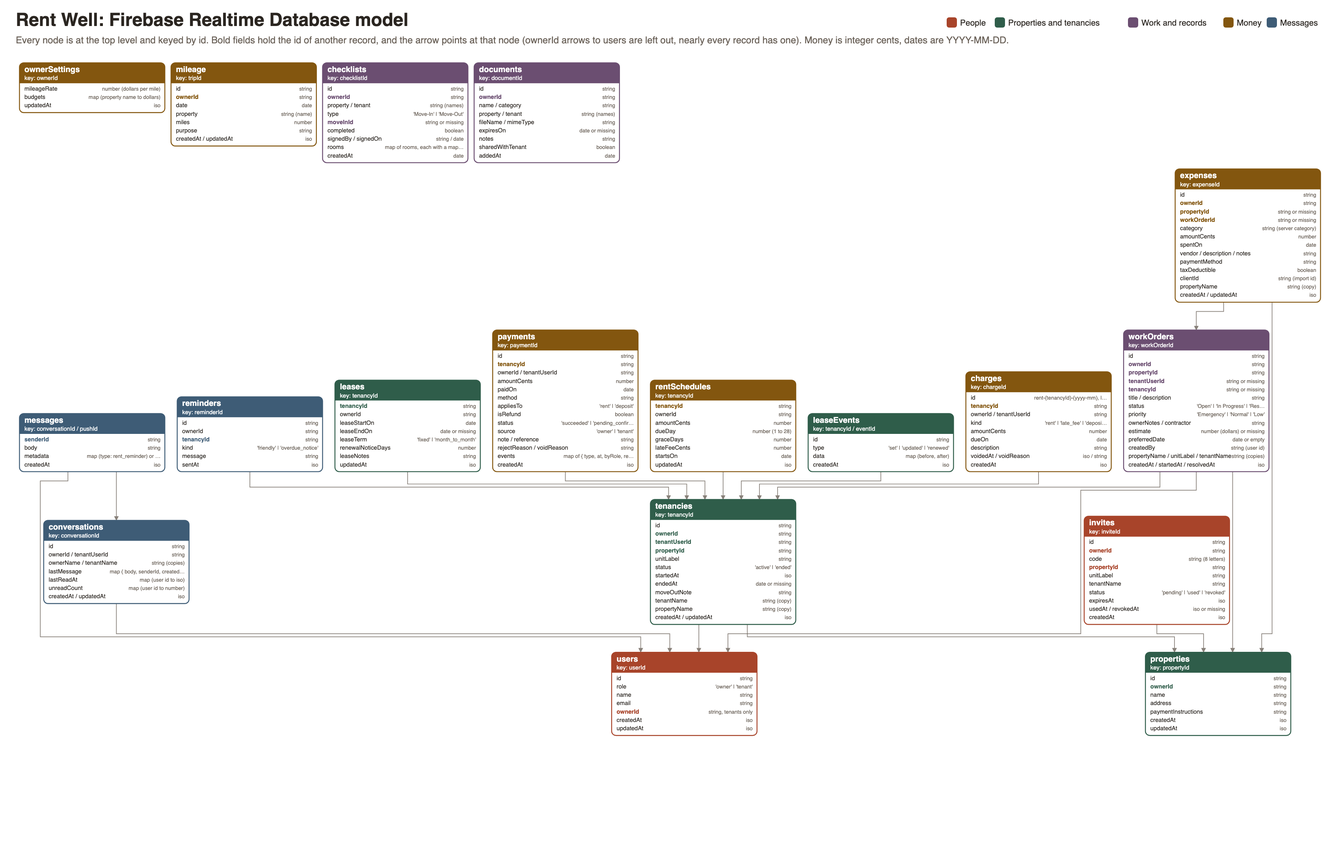
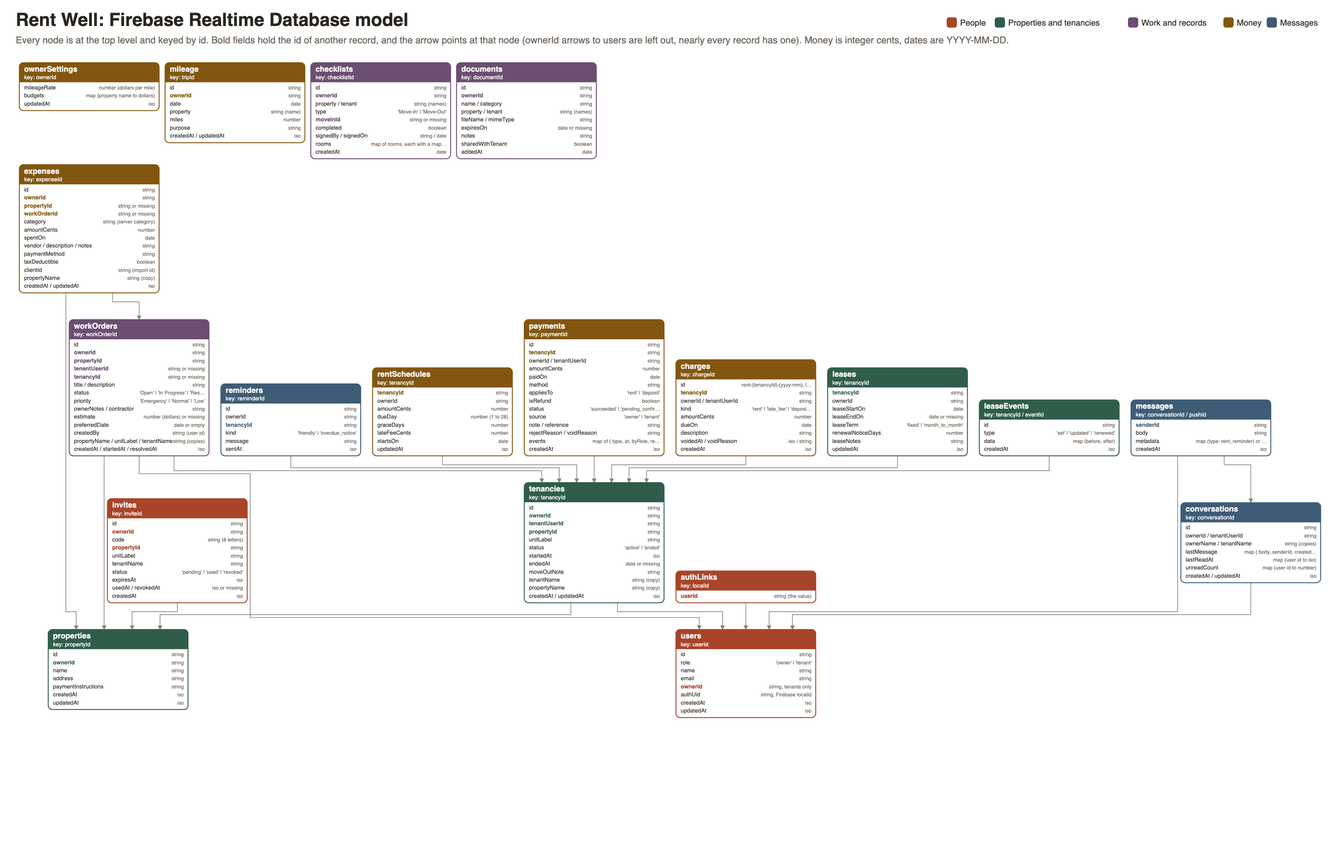
Assignment 12 docs: ASSIGNMENT_AUTH.md, data model with authLinks, Firebase setup for Auth, README, CLAUDE.md, design and journal notes

diff --git a/CLAUDE.md b/CLAUDE.md
@@ -11,8 +11,9 @@ The code so far was written in an earlier chat session and has been run only par
 - AsyncStorage for saving, `expo-image-picker`, `expo-file-system` and `expo-sharing` (CSV export, documents), `expo-document-picker`, `@react-native-community/datetimepicker`, `@expo/vector-icons` (Ionicons)
 - Fraunces and DM Sans from `@expo-google-fonts/fraunces` and `@expo-google-fonts/dm-sans`, loaded in `App.js` behind the splash (Inter and the pixel font are gone)
 - `react-native-svg`, `expo-splash-screen` (the splash through its config plugin, held in `App.js` until the fonts load), `expo-status-bar`
+- `expo-secure-store` (the signed-in session, with its config plugin in `app.json` carrying the same Face ID sentence as the lock)
 - `expo-calendar` (imported from `expo-calendar/legacy`, the new object API throws in Expo Go) and `expo-local-authentication` (Face ID and Touch ID), both with their config plugins and strings in `app.json`
-- Backend: the Firebase Realtime Database through its REST endpoints with plain `fetch`, the only backend (milestone 2). The address comes from `.env` (`EXPO_PUBLIC_FIREBASE_DB_URL`, git ignored, read in `constants/config.js`), `EXPO_PUBLIC_FIREBASE_API_KEY` is optional and unused until Firebase Auth. `.env.example` has placeholders only. The old Express API (sibling repo) is no longer used by the app. No sockets, no push, no uploads.
+- Backend: the Firebase Realtime Database through its REST endpoints with plain `fetch`, the only backend (milestone 2), and Firebase Auth (email and password) over REST (Assignment 12). `.env` (git ignored, read in `constants/config.js`) has `EXPO_PUBLIC_FIREBASE_DB_URL`, `EXPO_PUBLIC_FIREBASE_API_KEY`, optional `EXPO_PUBLIC_FIREBASE_AUTH_URL` and `EXPO_PUBLIC_FIREBASE_TOKEN_URL` (only for the local fake), and `SEED_ACCOUNT_PASSWORD` (only the seed script reads it, never print or commit it). `.env.example` has placeholders only. No Firebase JS SDK. The old Express API (sibling repo) is no longer used by the app. No sockets, no push, no uploads.
 - Run with `npx expo start -c` (clear the cache after adding or renaming files)
 - Checks: `npm run lint` (whole project), `npm test` (runs once, `npm run test:watch` to watch), `npm run format:check`. Format with `npx prettier --write <files>`. Prettier keeps quoted keys as written (`quoteProps: preserve`). Lint has 5 known warnings (react-hooks exhaustive-deps in existing code), the errors were fixed at the start of milestone 2.
 
@@ -23,6 +24,7 @@ The code so far was written in an earlier chat session and has been run only par
 - `navigation/`: `navigationMap.js` is the single source of truth for screens: route name, header title, role, feature, file, params (all ids ending in `Id`), outgoing edges (`demo: true` for demo-only ones), stub or built, `place` (auth, tab, drawer, or drill) with `nav_label` and `nav_icon` for tabs and drawer items, the `hubs` table (tab order and drawer sections per role, `parentsOf` for the nested names), and `reachable_in` (the situations that can open it: signed_out, owner, tenant, demo_owner, demo_tenant, defined in `situations`). `screenOptions.js` (shared header style, `optionsFor(route)` reads titles from the map, adding a short id where the title depends on a param, plus `shared_tab_options`, `shared_drawer_options`, `tabOptionsFor`, `drawerOptionsFor`), `headerButtons.js` (Settings gear, Add work order, Invite, Add request, `HeaderMenuButton`, `DrawerHeaderLeft`), `hubRouter.js` (wraps a navigate, push, replace, or reset to a tab or drawer name in `Main` and `Tabs`, so every existing call by name works), `DrawerContent.js`, `tabBadges.js`. Tests: `navigationMap.test.js` (App.js and the map match, each screen on the navigator its place says, tab order and drawer contents per role, reachability for all five situations with the tabs and drawer as hubs checked against `reachable_in`, a way back from every screen, the demo chooser and switch edges, the App.js role groups, id params, the diagram is current) and `navigationCalls.test.js` (no navigation call passes an object or a non-id param, every reset goes to a registered screen with no params). `hubRouter.test.js` (the router override, drawer history, badges) and `appNavigation.test.js` (renders the real App in both demo sides: every tab and drawer item, drill-down and back, role switch, one header per screen). Add a screen: register it in `App.js` on the navigator its `place` says, add it to the map with its edges (and to `hubs` for a tab or drawer item), then run `npm run diagram`.
 - `scripts/buildAppAssets.mjs` (`npm run assets`): draws the app icon, Android adaptive icon layers, splash image, and favicon (`assets/hearth-*.png`) as a green line house on paper with headless Chrome and points `app.json` at them, colors from `constants/theme.js`.
 - `scripts/buildNavigationDiagram.mjs` (`npm run diagram`): draws `assignment/navigation/navigation-diagram.svg/.png/.pdf` and `navigation.mmd` from the map with elkjs and headless Chrome, as swimlanes (signed out, landlord, tenant) with the tab bar and drawer as groups.
+- `util/auth.js`: the lecture's `authenticate(mode, email, password)`, `createUser`, `login`, plus `refreshSession`, `AuthError`, `authErrorMessage(code)`, `authSetupMessage()`. `util/authToken.js`: the token `util/http.js` sends (`?auth=`), set by AuthContext with its refresh function (5 minute margin, one shared refresh). `util/sessionStorage.js`: the session under `rent_well_auth_session` in SecureStore, AsyncStorage on web and in tests. `components/Auth/`: AuthContent, AuthForm, AuthInput, LoadingOverlay (the three auth screens use them).
 - `util/http.js`: the single data access entry point. REST primitives (`getNode`, `putNode`, `patchNode` with multi-path, `pushNode`, `deleteNode`, `createIfAbsent` with `if-match: null_etag`), a 10 second timeout, one `ApiError` per failure (`NOT_CONFIGURED`, `NETWORK_ERROR`, `TIMEOUT`, `PERMISSION_DENIED`, `NOT_FOUND`, `BAD_REQUEST`, `SERVER_ERROR`), and it re-exports `util/data/*` (session, users, properties, tenants, invites, workOrders, expenses, mileage, ledger, leases, messages, reminders, checklists, documents, settings, plus `records.js` and `pushId.js`). No Firebase call anywhere else. Work orders, expenses, and messages hand back the old API's camelCase shapes so the `fromApi*` mappers still work. Tenants and the ledger load in the demo's own shape so the demo's rule functions make every change and only the difference is written. `util/apiHelpers.js` (pure `ApiError`, `parseApiError`), `util/appLock.js`, `util/navigationRef.js`, `util/systemPickers.js` (import these instead of the expo picker modules). Data model: `docs/data-model.md` (drawn from `scripts/dataModel.mjs` with `npm run data-model`). Setup: `docs/firebase-setup.md`.
 - `constants/theme.js`: `COLORS`, `SPACING`, `FONT_SIZES`, `FONTS`. `LIGHT_COLORS` and `DARK_COLORS` share token names, `COLORS` reads the active one, `themed(build)` makes a per-palette object (color tables, navigator options), `setActiveScheme`. `util/themedStyles.js`: `themedStyles((COLORS) => ({ ... }))` replaces module-level `StyleSheet.create` wherever colors are used. `store/ThemeContext.js`: `ThemeProvider`, `useTheme()` (System, Light, Dark, saved per device under `rent_well_appearance`).
 - `store/WorkOrdersContext.js`: all shared data and actions (see below)
@@ -65,7 +67,7 @@ The code so far was written in an earlier chat session and has been run only par
 
 ## How the data works
 - Two modes, picked at Welcome. Demo is fully local and offline: no network request, no account, sample data, nothing saved. Real mode is Firebase: everything a signed-in account sees is read from and written to the Realtime Database. Firebase Auth comes next milestone.
-- Accounts (test accounts stand-in): Log In lists `users` and the picked account (id plus a copy) is kept in AsyncStorage under `rent_well_test_account`. `AuthContext` opens signed in from the copy, re-reads the record, and goes to Login if it's gone. It sets `util/data/session.js` so the data modules know who is signed in. Register screens make a test account (no password), tenant sign up uses an invite from `invites` and writes the user, tenancy, conversation, and used invite in one multi-path PATCH.
+- Accounts (Assignment 12, branch `assignment-12-auth`): Firebase Auth email and password. `authLinks/{localId}` holds the user id a Firebase account signs in as, and every user has `authUid`. New users are keyed by their `localId`, the seeded ones keep their ids (the seed script makes and links their accounts with `SEED_ACCOUNT_PASSWORD`). Log in reads `authLinks`, no link means "no Rent Well profile yet". Sign up writes the user plus `authLinks` in one PATCH (a tenant's also writes the tenancy, conversation, and used invite), and an email that already exists signs in with the typed password to finish a profile that didn't save. `AuthContext` restores the saved session at launch (signed in right away, even offline), refreshes near expiry, signs out with the session note when the refresh is rejected, and sets `util/data/session.js`. Passwords need 8 characters. `database.rules.json` is `auth != null`. Signed out only registers Welcome, DemoChooser, Login, RegisterOwner, RegisterTenant (`has_account_screens` in App.js), log out opens on Login (`opens_on_login`), and the drawer ends with a Log Out row (`LogoutButton as_row`, Exit Demo in the demo). Tests sign in with `signInAs(firebase, user_id)` from `scripts/testing/fakeFirebase.js` (fake Auth, `require_auth` option).
 - No live listeners over REST: `navigation/useRefreshOnFocus.js` reloads a screen's stores quietly when it comes back into view, plus pull to refresh and a reload after every write. An open message thread checks every 8 seconds (`thread_poll_ms`) while focused and in the foreground.
 - Every Firebase provider exposes `status` ('loading' | 'ready' | 'error'), an error message, and refresh. `store/useScreenData.js` plus `components/ui/DataScreen.js` (`withDataScreen`) give a screen its loading, error, and banner states. The coverage matrix is `navigation/screenCoverage.js`, tested by `navigation/screenCoverage.test.js`.
 - Tenants: `TenantsProvider` gives one interface (`tenants`, `properties`, `invites`, `refresh`, `reloadQuietly`, `fetchTenantDetail`, `addProperty`, `updateProperty`, `deleteProperty`, `createInvite`, `revokeInvite`, `resendInvite`, `assignTenant`, `moveTenancy`, `endTenancy`, leases). Both modes run the pure `demoTenants.js` and `demoLeases.js` actions: the demo on `demo_tenant_data` in `WorkOrdersContext`, Firebase on the landlord's bundle from `getTenantData(owner_id)`, written with `saveTenantDataChanges` (one multi-path PATCH, rollback on failure). A tenant loads their landlord's bundle and reads their own rentals and read-only state from it.
@@ -178,6 +180,7 @@ The app is light and warm (the Hearth pass, see the Design system section): pape
 - Hearth redesign (branch `hearth-redesign`, built on `payments-ledger-app`, not merged): the warm editorial look above across every screen, both homes rebuilt as a hero number plus rows, the Rent Ledger with a More action sheet, and regenerated icons. Visual only, no route, data, or logic changes.
 - Fintech pass (branch `fintech-polish`, built on `design-polish`, not merged): light theme with an indigo brand, the design system above, overview dashboards with a monthly spending sparkline, `formatCurrency` everywhere money shows, segmented controls, tinted pills, `$` money inputs, a slim demo banner, regenerated icons, and the audit in `docs/design-audit.md`.
 - The Dashboard still has a temporary "New Work Order" button in the demo (hidden in real mode).
+- Assignment 12 (branch `assignment-12-auth`, not merged): Firebase Auth email and password over REST, token in AuthContext and SecureStore, `?auth=` on every request with refresh and one retry, rules need a signed-in user, the seed makes real accounts, signed out only sees the five auth screens. Write-up `ASSIGNMENT_AUTH.md`, log `docs/progress-log-auth.md`.
 - Milestone 2 (branch `milestone-2-firebase`): Firebase Realtime Database (REST) is the only backend. Test accounts stand in for sign in, every provider has a Firebase half, the rent catch-up bills on the landlord's phone, messages poll while a thread is open, uploads wait for Storage, Delete work order, loading and error states on every data screen, the fake server and seed scripts (`npm run firebase:fake`, `firebase:seed`, `firebase:check`), `docs/data-model.md`, `docs/firebase-setup.md`, and `docs/project_journal.md`. Log in `docs/progress-log-milestone2.md`.
 
 ## Course assignment (submitted)
@@ -209,7 +212,7 @@ Bank feed import and matching, receipt scanning that fills in amount, date, and 
 
 ## Next up
 1. Build out the two stub screens: Settings and Property Detail.
-2. Firebase Auth (milestone 3): real sign in, then rules that limit each account to its own records, and an API key in `.env`.
+2. Per-user database rules (each account only reaches its own records), which needs the data grouped by owner. Password reset and email verification.
 3. Firebase Storage for photos, receipts, and document files (the upload buttons are hidden outside the demo until then), and recurring expenses in the database.
 
 ## Working with Christian

diff --git a/docs/firebase-setup.md b/docs/firebase-setup.md
@@ -1,7 +1,8 @@
 # Firebase setup for Rent Well
 
-Rent Well uses one Firebase **Realtime Database** (not Firestore) as its only backend, through the REST
-endpoints. These steps take about ten minutes. You need a Google account and Node installed.
+Rent Well uses one Firebase **Realtime Database** (not Firestore) as its only backend, and **Firebase
+Authentication** (email and password) for signing in, both through their REST endpoints. These steps
+take about fifteen minutes. You need a Google account and Node installed.
 
 ## Create the database
 
@@ -9,45 +10,49 @@ endpoints. These steps take about ten minutes. You need a Google account and Nod
    Give it a name (for example `rent-well`). Google Analytics is optional, you can turn it off.
 2. In the left menu open **Build**, then **Realtime Database**, then click **Create Database**.
 3. Pick the location closest to you and click **Next**.
-4. Choose **Start in test mode** and click **Enable**. Test mode lets anyone read and write for 30 days,
-   which is fine for class testing. Next milestone adds Firebase Auth and real rules.
+4. Choose **Start in test mode** and click **Enable**. Test mode lets anyone read and write for 30 days.
+   You'll swap in rules that need a signed-in user in step 13, after the data is in.
 5. At the top of the **Data** tab you'll see the database address. It looks like
    `https://your-project-default-rtdb.firebaseio.com`. Copy it.
 
+## Turn on email and password sign in
+
+6. In the left menu open **Build**, then **Authentication**, then **Get started**.
+7. On the **Sign-in method** tab pick **Email/Password**, turn on the first switch (leave "Email link"
+   off), and click **Save**. Without this, sign up and log in say that email and password sign in is
+   turned off.
+8. Open **Project settings** (the gear next to Project Overview). On the **General** tab copy the
+   **Web API key**. (If there's no web app yet, add one with the `</>` button, any nickname works.)
+
 ## Connect the app
 
-6. In the project folder, copy the example settings file:
+9. In the project folder, copy the example settings file:
 
    ```bash
    cp .env.example .env
    ```
 
-7. Open `.env` and paste your address after `EXPO_PUBLIC_FIREBASE_DB_URL=`, with no slash at the end:
+10. Open `.env` and fill in your address (no slash at the end), the Web API key, and a password for
+    the seeded accounts (8 characters or more, make up your own):
 
-   ```
-   EXPO_PUBLIC_FIREBASE_DB_URL=https://your-project-default-rtdb.firebaseio.com
-   EXPO_PUBLIC_FIREBASE_API_KEY=
-   ```
+    ```
+    EXPO_PUBLIC_FIREBASE_DB_URL=https://your-project-default-rtdb.firebaseio.com
+    EXPO_PUBLIC_FIREBASE_API_KEY=your-web-api-key
+    SEED_ACCOUNT_PASSWORD=pick-your-own-password
+    ```
 
-   Leave the API key blank for now. It's only saved for next milestone's sign in.
-   `.env` is in `.gitignore`, so the address stays on your computer and never goes into git.
+    `.env` is in `.gitignore`, so none of these go into git. The app only reads the two
+    `EXPO_PUBLIC_` lines. Only the seed script reads `SEED_ACCOUNT_PASSWORD`.
 
-8. Check that git ignores it. This should print `.env`:
+11. Check that git ignores it. This should print `.env`:
 
    ```bash
    git check-ignore .env
    ```
 
-## Publish the rules
-
-9. In the Firebase console open **Realtime Database**, then the **Rules** tab.
-10. Replace what's there with the contents of `database.rules.json` from the project folder and click
-    **Publish**. (These are the test mode rules. The app filters on the phone instead of using REST
-    queries, so no `.indexOn` entries are needed.)
-
 ## Fill it with sample data
 
-11. Seed the database with the same story the demo tells (Taylor Brooks, two properties, six tenants
+12. Seed the database with the same story the demo tells (Taylor Brooks, two properties, six tenants
     including a roommate and a former tenant, leases, three months of rent, work orders, expenses,
     trips, messages, invites, checklists, and documents):
 
@@ -55,51 +60,86 @@ endpoints. These steps take about ten minutes. You need a Google account and Nod
     npm run firebase:seed
     ```
 
-    Add `-- --reset` to wipe the database first. The script only writes to the address in `.env` (or a
-    local address), and running it again gives the same data.
+    It makes a Firebase Auth account for every seeded person first (the password is
+    `SEED_ACCOUNT_PASSWORD`), links each one to its user record (`authLinks` and `authUid`), then
+    writes the data while signed in as Taylor, so it works with either set of rules. It prints a table
+    of the seeded emails at the end. Add `-- --reset` to wipe the database first. The script only
+    writes to the address in `.env` (or a local address), and running it again gives the same data
+    and leaves accounts made in the app alone.
 
-12. Check every node made it:
+    Check every node made it:
 
     ```bash
     npm run firebase:check
     ```
 
-    Each node should print `PASS`. You can also look at the data in the console's **Data** tab.
+    Each node should print `PASS`. You can also look at the data in the console's **Data** tab, and
+    the accounts on the **Authentication** > **Users** tab.
+
+## Publish the rules (after the app works)
+
+13. Try the app first (below). Once logging in works, open **Realtime Database**, then the **Rules**
+    tab, replace what's there with the contents of `database.rules.json`, and click **Publish**:
+
+    ```json
+    { "rules": { ".read": "auth != null", ".write": "auth != null" } }
+    ```
+
+    Now only a signed-in account can read or write. The app sends its token on every request
+    (`?auth=`), so nothing else changes. These rules have no end date, unlike test mode. (The app
+    filters on the phone instead of using REST queries, so no `.indexOn` entries are needed.) The old
+    rules are kept as a note in [database-rules-test-mode.md](database-rules-test-mode.md).
 
 ## Run the app
 
-13. Start Expo with a clean cache so it picks up `.env`:
+14. Start Expo with a clean cache so it picks up `.env`:
 
     ```bash
     npx expo start -c
     ```
 
-14. Open it in Expo Go or a simulator, tap **Log In**, and pick a test account:
-    - **Taylor Brooks** (landlord, has everything)
-    - **Sam Rivera** (tenant at 123 Maple St, Unit 2)
-    - **Morgan Diaz** (former tenant, read only)
-    - **Jamie Ortiz** (landlord with no data, for the empty screens)
+15. Open it in Expo Go or a simulator, tap **Log In**, and use a seeded email with
+    `SEED_ACCOUNT_PASSWORD`:
+    - `taylor@example.com`: **Taylor Brooks** (landlord, has everything)
+    - `sam@example.com`: **Sam Rivera** (tenant at 123 Maple St, Unit 2)
+    - `morgan@example.com`: **Morgan Diaz** (former tenant, read only)
+    - `jamie@example.com`: **Jamie Ortiz** (landlord with no data, for the empty screens)
 
-    To try tenant sign up, tap **I have an invite code** and use `K7M2QX9P`.
+    Or make your own: **Sign Up** makes a new landlord, and **I have an invite code** makes a tenant
+    (the seeded code is `K7M2QX9P`).
 
 ## If something goes wrong
 
 - **"The database address is missing"**: `.env` is missing or the line is misspelled. Fix it, then
   restart with `npx expo start -c`.
-- **"The database turned this away"**: the rules weren't published, or test mode ran out after 30
-  days. Publish `database.rules.json` again.
+- **"The Firebase API key is missing"**: add `EXPO_PUBLIC_FIREBASE_API_KEY` to `.env`, then restart
+  with `npx expo start -c`.
+- **"Email and password sign in is turned off"**: do step 7.
+- **"The database turned this away"** (a permission error): the published rules need a signed-in user
+  and the request had no good token. Log out and log in again. If it keeps happening, check that the
+  Web API key in `.env` is from the same project as the database. If you need the app working right
+  away, publish the old test mode rules from `database-rules-test-mode.md` while you look.
+- **"This account has no Rent Well profile yet"**: the Firebase account exists but isn't linked to a
+  user record. For a seeded email, run `npm run firebase:seed` again. Otherwise sign up again with the
+  same email and password, which finishes the profile.
+- **"That email or password isn't right"** for a seeded email: use the `SEED_ACCOUNT_PASSWORD` that
+  was in `.env` the first time you seeded.
 - **"Can't reach the database"**: check your internet. On a phone, Expo Go needs to be online too.
-- **No test accounts on Log In**: run `npm run firebase:seed`.
+- **The seed stops with "already exists with a different password"**: that email was seeded before
+  with another `SEED_ACCOUNT_PASSWORD`. Put the old one back, or delete that user on the
+  **Authentication** > **Users** tab and seed again.
 
 ## Trying it with no Firebase project
 
-`npm run firebase:fake` starts a small local copy of the REST API on port 9000 (it keeps data in
-memory only). Seed it with `npm run firebase:seed -- --url=http://localhost:9000`, and set
-`EXPO_PUBLIC_FIREBASE_DB_URL=http://localhost:9000` in `.env`. On a real phone use your computer's
+`npm run firebase:fake` starts a small local copy of the database and Auth REST APIs on port 9000 (it
+keeps data in memory only). Add `-- --require-auth` to make it turn away requests without a token,
+like the real rules. Seed it with `npm run firebase:seed -- --url=http://localhost:9000`, and in
+`.env` set `EXPO_PUBLIC_FIREBASE_DB_URL`, `EXPO_PUBLIC_FIREBASE_AUTH_URL`, and
+`EXPO_PUBLIC_FIREBASE_TOKEN_URL` all to `http://localhost:9000` (any API key works). On a real phone use your computer's
 address on the wifi instead of `localhost`.
 
 ## What stays on the phone
 
-Appearance (light or dark), the Face ID switch, the demo tour, recent searches, and the signed-in test
-account's id stay on the phone. Everything else is in the database. See
+Appearance (light or dark), the Face ID switch, the demo tour, recent searches, and the signed-in
+session (in SecureStore: the tokens and a copy of the user record) stay on the phone. Everything else is in the database. See
 [data-model.md](data-model.md).

diff --git a/docs/data-model.md b/docs/data-model.md
@@ -22,6 +22,9 @@ the list below. ([SVG version](data-model.svg))
     created with a conditional `PUT` (`if-match: null_etag`), so a record that already exists is
     never overwritten and running the rent catch-up twice, or on two phones, can never double charge.
   - `messages/{conversationId}/{pushId}`: push ids sort oldest to newest, so a thread reads in order.
+  - `authLinks/{localId}`: one per Firebase Auth account, the value is the user id it signs in as.
+    Users who sign up in the app are keyed by their own `localId` (so a new landlord's `ownerId` is
+    their `localId`), and the seeded users keep their old ids and are linked by the seed script.
 - **Scoped by owner.** Nearly every record has `ownerId` (the landlord's user id). Records a tenant
   sees also carry `tenantUserId` and usually `tenancyId`. The app reads a whole small node and
   filters on the phone by these fields. It never uses REST queries (`orderBy`, `equalTo`), since
@@ -36,6 +39,9 @@ the list below. ([SVG version](data-model.svg))
   mileage rate, which the app always kept in dollars.
 - **Dates** are date-only `YYYY-MM-DD` text (`dueOn`, `paidOn`, `spentOn`). Moments in time are
   ISO timestamps (`createdAt`, `updatedAt`). Nothing is shifted between time zones.
+- **Signed in only.** `database.rules.json` lets any signed-in Firebase account read and write
+  (`auth != null`), and every request carries the account's ID token as `?auth=`. Per-user rules
+  are the next step (see `docs/database-rules-test-mode.md`).
 - **No files.** The Realtime Database can't hold file bytes, so photos, receipts, and document
   files stay out of it until Firebase Storage is added. Documents and checklist items save their
   records only.
@@ -54,8 +60,12 @@ object). `(copy)` marks a display copy of a name stored elsewhere.
       "name": "string",
       "email": "string",
       "ownerId": "string (tenants only: their landlord)",
+      "authUid": "string (the Firebase Auth localId of this user's account)",
       "createdAt": "iso", "updatedAt": "iso"
     }
+  },
+  "authLinks": {
+    "{localId}": "string -> users (the userId this Firebase account signs in as)"
   },
   "properties": {
     "{propertyId}": {
@@ -237,7 +247,8 @@ object). `(copy)` marks a display copy of a name stored elsewhere.
 
 | Node | Read by (screens) | Written by |
 | --- | --- | --- |
-| `users` | Login (test accounts), Tenants, Tenant Profile, Messages | Register Landlord, Register Tenant |
+| `users` | Log In (after Firebase Auth, through `authLinks`), Tenants, Tenant Profile, Messages | Landlord Sign Up, Tenant Sign Up |
+| `authLinks` | Log In, and every launch that restores a saved session | Landlord Sign Up, Tenant Sign Up, the seed script |
 | `properties` | Properties, Property Overview, Tenants, Invite Tenant, work order form, Expenses | Properties (add, edit, delete), Property Overview (payment instructions) |
 | `tenancies` | Tenants, Tenant Profile, Leases, Tenant Lease, Payments, tenant Home, Calendar | Assign, Move, End (Tenant Profile), Register Tenant |
 | `leases`, `leaseEvents` | Leases, Tenant Lease, both Homes, Calendar | Tenant Lease (set, edit, renew) |
@@ -258,7 +269,8 @@ object). `(copy)` marks a display copy of a name stored elsewhere.
 These are per device preferences, not shared data, so they stay in AsyncStorage or SecureStore:
 
 - Appearance (System, Light, Dark), the Face ID unlock switch, and the demo tour flag.
-- The signed-in test account's user id (`rent_well_test_account`), until Firebase Auth replaces it.
+- The signed-in session (`rent_well_auth_session`: the ID token, refresh token, Firebase `localId`,
+  when the token runs out, and a copy of the user record), in SecureStore on a phone.
 - Recent searches, the device calendar ids, and the dismissed onboarding card.
 - Cached copies of work orders, expenses, and ledgers, so a screen still shows the last data offline.
 - Recurring expense rules (the Recurring button is hidden in Firebase mode until it moves over).

diff --git a/README.md b/README.md
@@ -41,23 +41,29 @@ npx expo start -c
 
 ## Backend: Firebase Realtime Database
 Rent Well's only backend is a Firebase Realtime Database, used through its REST endpoints with plain
-`fetch`. The demo needs no backend at all. Signing in, signing up, and everything a real account sees
-read and write the database.
+`fetch`, with Firebase Authentication (email and password, also over REST) for signing in. The demo
+needs no backend at all. Everything a real account sees reads and writes the database.
+
+Authentication (Assignment 12): [ASSIGNMENT_AUTH.md](ASSIGNMENT_AUTH.md).
 
 Setup, step by step: [docs/firebase-setup.md](docs/firebase-setup.md). The short version:
 
-1. Create a Firebase project, then a Realtime Database in test mode.
+1. Create a Firebase project, a Realtime Database in test mode, and turn on Email/Password under
+   Authentication > Sign-in method.
 2. Copy `.env.example` to `.env` and set `EXPO_PUBLIC_FIREBASE_DB_URL` to your database address
-   (like `https://your-project-default-rtdb.firebaseio.com`, no slash at the end). `.env` is git
-   ignored, so the address never gets committed. `EXPO_PUBLIC_FIREBASE_API_KEY` can stay blank for now.
-3. Paste `database.rules.json` into the console's Rules tab and publish.
-4. Fill the database: `npm run firebase:seed`, then check it with `npm run firebase:check`.
-5. Start the app with `npx expo start -c` (the `-c` picks up a changed `.env`).
+   (like `https://your-project-default-rtdb.firebaseio.com`, no slash at the end),
+   `EXPO_PUBLIC_FIREBASE_API_KEY` to the Web API key, and `SEED_ACCOUNT_PASSWORD` to a password of your
+   own for the seeded accounts. `.env` is git ignored, so none of it gets committed.
+3. Fill the database: `npm run firebase:seed` (it makes the seeded accounts too), then check it with
+   `npm run firebase:check`.
+4. Start the app with `npx expo start -c` (the `-c` picks up a changed `.env`) and log in.
+5. Once that works, paste `database.rules.json` (signed-in users only) into the console's Rules tab
+   and publish.
 
-Signing in: Firebase Auth comes next milestone, so Log In lists the **test accounts** in the database
-and you pick one (Taylor Brooks is the landlord, Sam Rivera a tenant, Morgan Diaz a former tenant,
-Jamie Ortiz a landlord with no data yet). Sign up makes a new test account. For tenant sign up use the
-invite code `K7M2QX9P`.
+Signing in: Log In takes an email and password. The seeded people are `taylor@example.com` (the
+landlord), `sam@example.com` (a tenant), `morgan@example.com` (a former tenant), and
+`jamie@example.com` (a landlord with no data yet), all with `SEED_ACCOUNT_PASSWORD`. Landlord Sign Up
+makes a new landlord. For tenant sign up use the invite code `K7M2QX9P`.
 
 - **The data model:** [docs/data-model.md](docs/data-model.md), with the diagram
   [docs/data-model.png](docs/data-model.png).

diff --git a/docs/DESIGN.md b/docs/DESIGN.md
@@ -243,6 +243,17 @@ Every screen that reads the Firebase database shows one of these instead of a bl
 - Upload buttons (photos, receipts, document files, scans) only show in the demo until Firebase Storage
   is added, so no screen offers something that can't work.
 
+## Auth forms (Assignment 12)
+
+Log In, Landlord Sign Up, and Tenant Sign Up share one set of pieces in `components/Auth/`, in the lecture's shape.
+
+- **AuthInput** wraps `components/forms/Input`, so the box, the label, and the message under it look exactly like the work order form. Email boxes use the email keyboard with no capitals or autocorrect. Passwords are hidden, with a 44 square eye button beside the box (the same spot as the date picker's button) that says "Show password" or "Hide password". `textContentType` and `autoComplete` are set (username, password, newPassword) so iOS password managers fill and save them.
+- **AuthForm**: one column, Next on the keyboard moves down the boxes and Done on the last one submits. The submit is the full width green pill (Log In, Create Account, Join). Sign up asks for the email and the password twice, and "At least 8 characters." sits under the password as a helper line.
+- **Messages:** each box gets its own message under it (the alert icon plus `danger_text`, never color only), the confirm boxes only speak up once the first box is right, and typing in a box clears its own message. A failure from Firebase (wrong email or password, no network, email taken) shows on the `danger_tint` line above the form, which is an alert for screen readers, and if it belongs to a box it shows under that box too. Raw Firebase codes never reach the screen.
+- **LoadingOverlay**: while the request runs, a backdrop covers the form with a small white sheet (12 corners, the one sheet shadow) holding the shared `ScreenState` loading ("Logging in..." or "Creating user..."). The form stays underneath with what was typed, it's hidden from screen readers while the sheet is up, and the button is disabled so a second tap sends nothing. With Reduce Motion the spinner is the still hourglass.
+- **Setup message:** with no API key or database address in `.env`, the three screens show one message on the error line saying what to add, and the button sends nothing.
+- **Log Out** stays a secondary pill on Settings and both homes, and the drawer ends with a Log Out row under Settings (the log-out line icon and the label in `danger_text`). In the demo the same row says Exit Demo.
+
 ## Visual QA
 
 The screenshots come from rendering the demo on the web in a scratch copy of the repo outside the project:

diff --git a/ASSIGNMENT_STATE.md b/ASSIGNMENT_STATE.md
@@ -1,3 +1,6 @@
 # Shared state in Rent Well
 
 The state I share across the app is the list of work orders, the repair requests a tenant reports and a landlord starts and resolves. I used React Context for it, in `store/WorkOrdersContext.js`, because it is a small list that a lot of screens in different tabs and in the drawer read and change: the landlord's Home counts, the Work Orders tab and its badge, Work Order Detail, a tenant's profile, and on the tenant side My Home, Repairs, Report an Issue, and Past Requests. Context ships with React and needs no extra setup, and Redux Toolkit would have been more setup than an app this size needs. In `App.js` the `WorkOrdersProvider` wraps the whole navigator, above the `NavigationContainer`, so every screen can reach the same orders through `useWorkOrders()`, and changing a status on Work Order Detail updates the list row, the Home subtitle, and the tab badge right away. In demo mode the orders live only in memory on the phone, and with a signed-in account a second provider inside it loads them from the Firebase Realtime Database, shows each change right away, and puts the old version back if the save fails.
+
+Assignment 12 added a second piece of app-wide state, the signed-in session: `store/AuthContext.js` holds the Firebase token and the user record, sits above `WorkOrdersProvider` in `App.js`, and the providers below it are keyed by the user's id, so logging out or switching accounts starts every list over empty (see [ASSIGNMENT_AUTH.md](ASSIGNMENT_AUTH.md)).
+

diff --git a/docs/project_journal.md b/docs/project_journal.md
@@ -135,3 +135,13 @@ the tab it came from.
 ![Work orders with Firebase data](screenshots/m2-work-orders.png)
 
 ![Payments and Rent with Firebase data](screenshots/m2-payments.png)
+
+## Assignment 12: real sign in
+
+- **Firebase Auth replaced the stand-in.** Log In and both sign up screens use email and password through the Firebase Auth REST API (`util/auth.js`, in the lecture's shape). The test account picker is gone, and the seed script makes a real account for every seeded person with one password from `.env`.
+- **Accounts link to records.** `authLinks/{localId}` says which user record a Firebase account is, and new users are keyed by their own `localId`, so a new landlord's records carry their Firebase id. The seeded records kept their ids.
+- **The token.** It lives in `AuthContext`, is saved with SecureStore, goes on every database request as `?auth=`, and is refreshed when it's within 5 minutes of running out. A refresh that's turned down sends you to Log In.
+- **Rules.** `database.rules.json` now asks for a signed-in user (`auth != null`) with no end date. Per-user rules are still the next step, since the data would need regrouping by owner for the rules to check it.
+- **Signed out sees five screens.** Welcome, the demo chooser, Log In, and the two sign up screens are the only ones registered until someone logs in or starts the demo.
+- Log: [progress-log-auth.md](progress-log-auth.md). Write-up: [ASSIGNMENT_AUTH.md](../ASSIGNMENT_AUTH.md).
+

diff --git a/ASSIGNMENT_AUTH.md b/ASSIGNMENT_AUTH.md
@@ -1,0 +1,3 @@
+# Assignment 12: Authentication
+
+In Rent Well every screen needs an account except Welcome, Pick a Demo Role, Log In, Landlord Sign Up, and Tenant Sign Up, and when nobody is signed in the app only registers those five screens, so a private screen can't be opened by name or by a link. Sign up and log in use the Firebase Auth REST API (accounts:signUp and accounts:signInWithPassword) through the helpers in util/auth.js, and the ID token lives in AuthContext in memory, gets saved on the phone with expo-secure-store, and is sent to the Realtime Database on every request as ?auth=. Landlords and tenants are my two kinds of users, and each Firebase account is linked to its Rent Well user record through an authLinks node keyed by the Firebase localId, so a new landlord's records are stored under their own user id and a tenant signs up with their landlord's invite code. When the app opens it reads the saved session and signs you straight back in, and since a Firebase token only lasts an hour it trades the refresh token for a new one whenever the token is about to run out, or sends you back to Log In if Firebase turns the refresh down. The database rules now only let a logged in user read or write, and logging out from Settings, either home, or the drawer clears the token from the phone and from memory.
